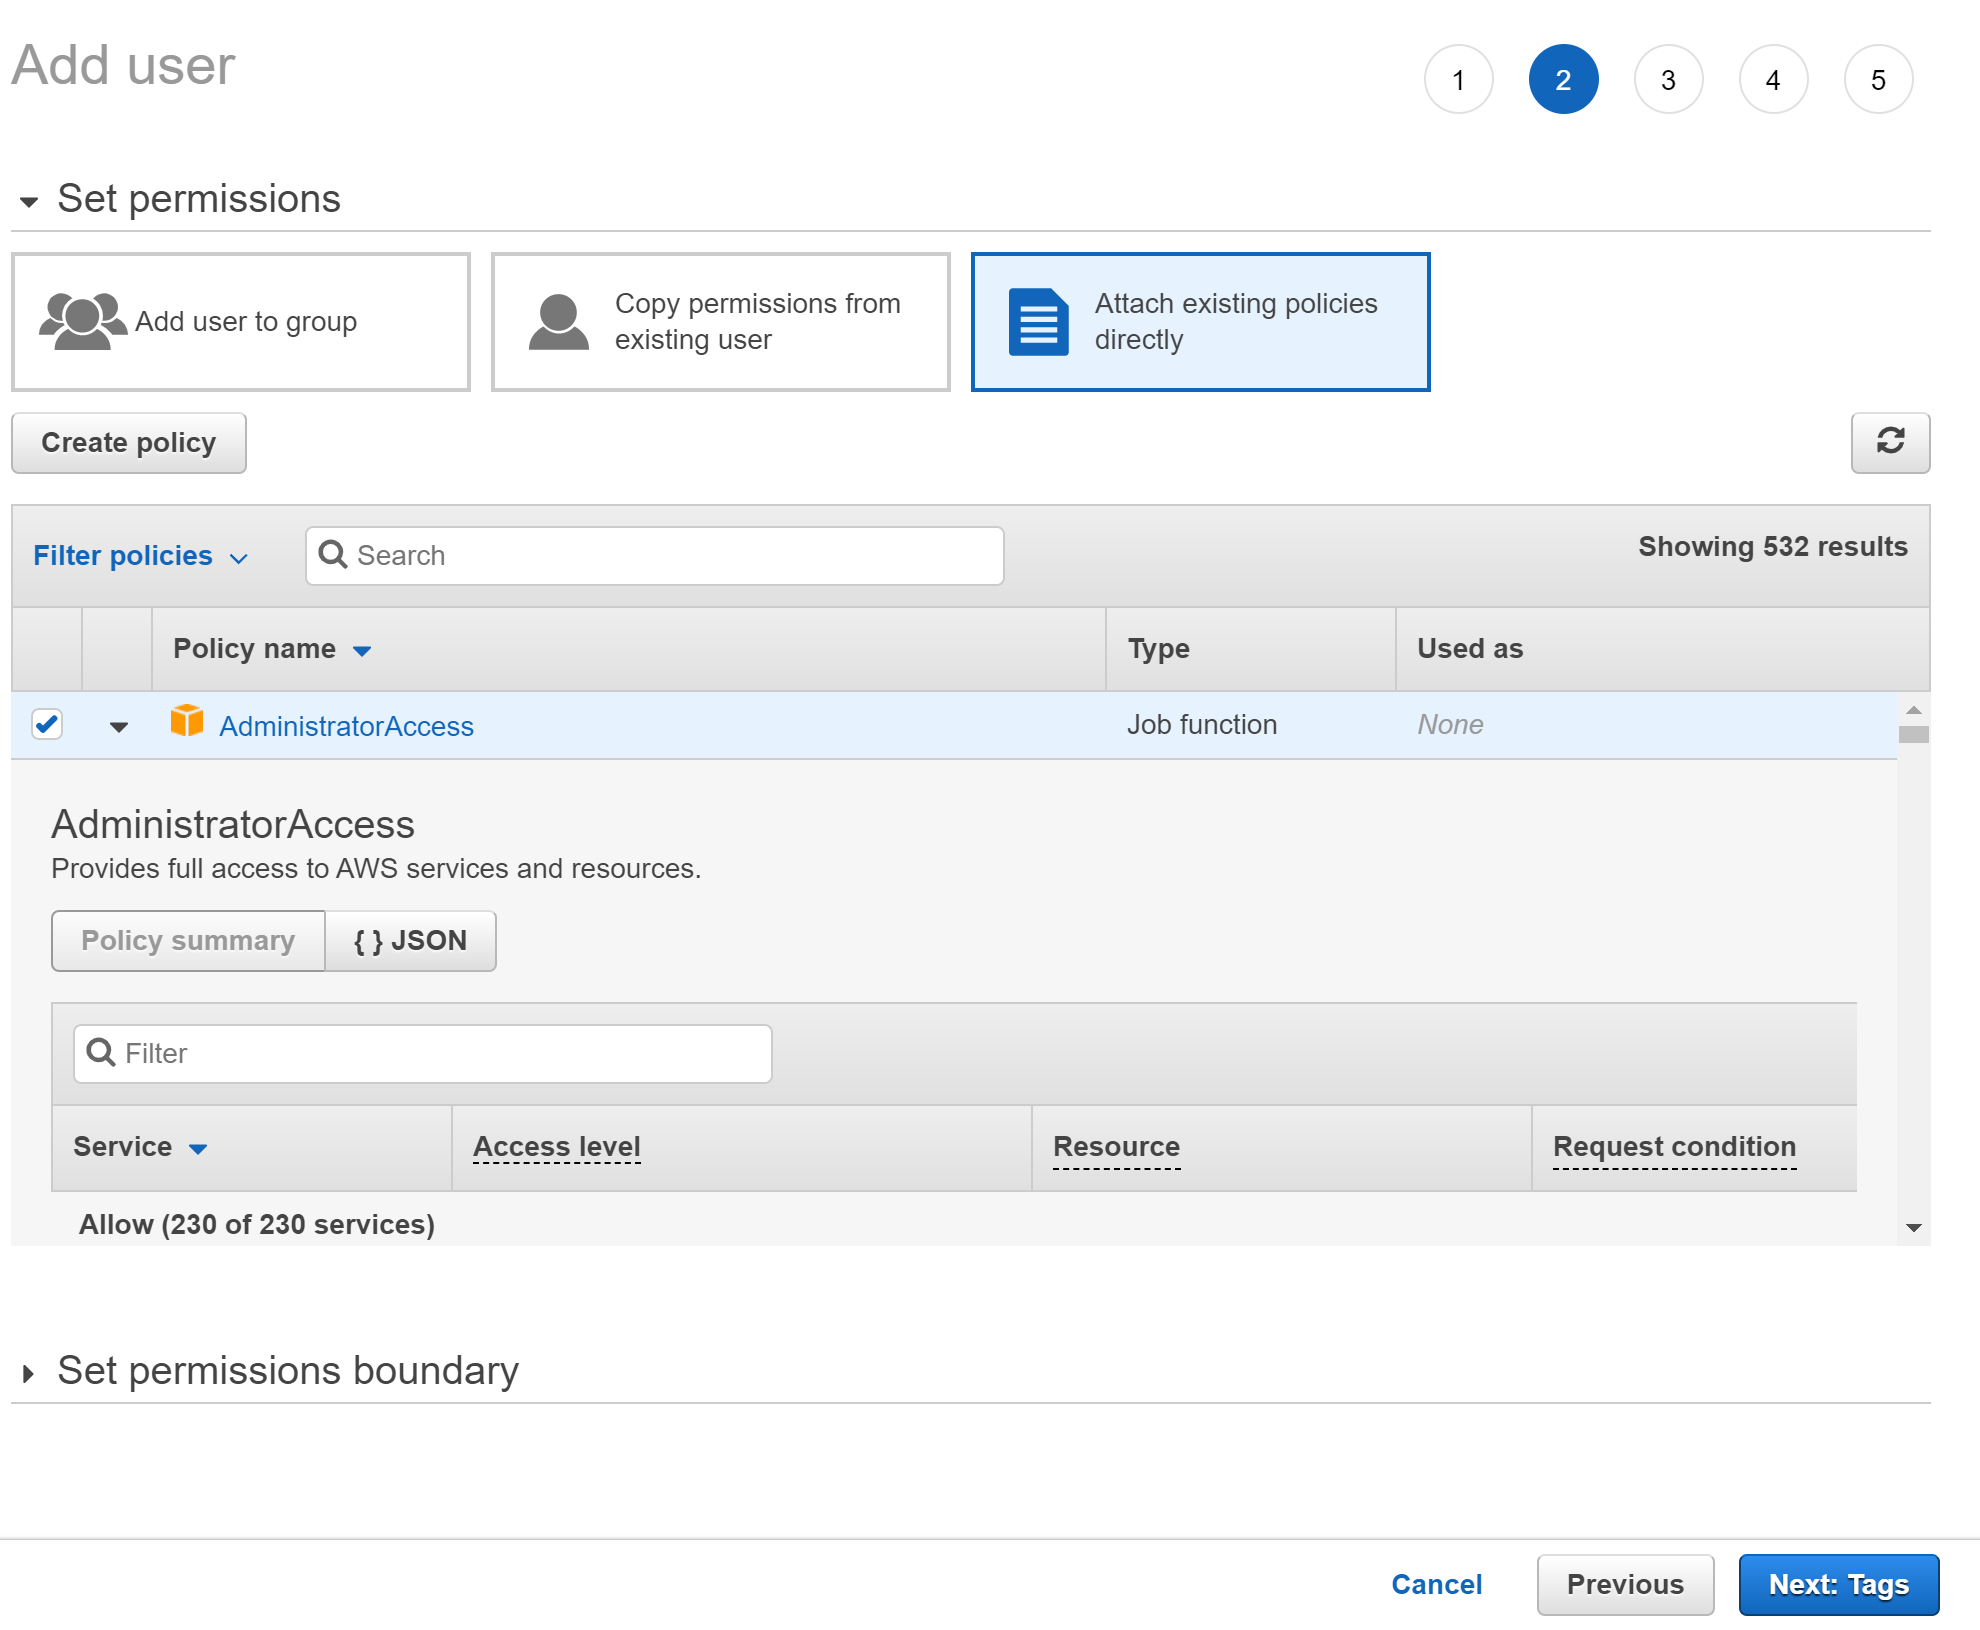
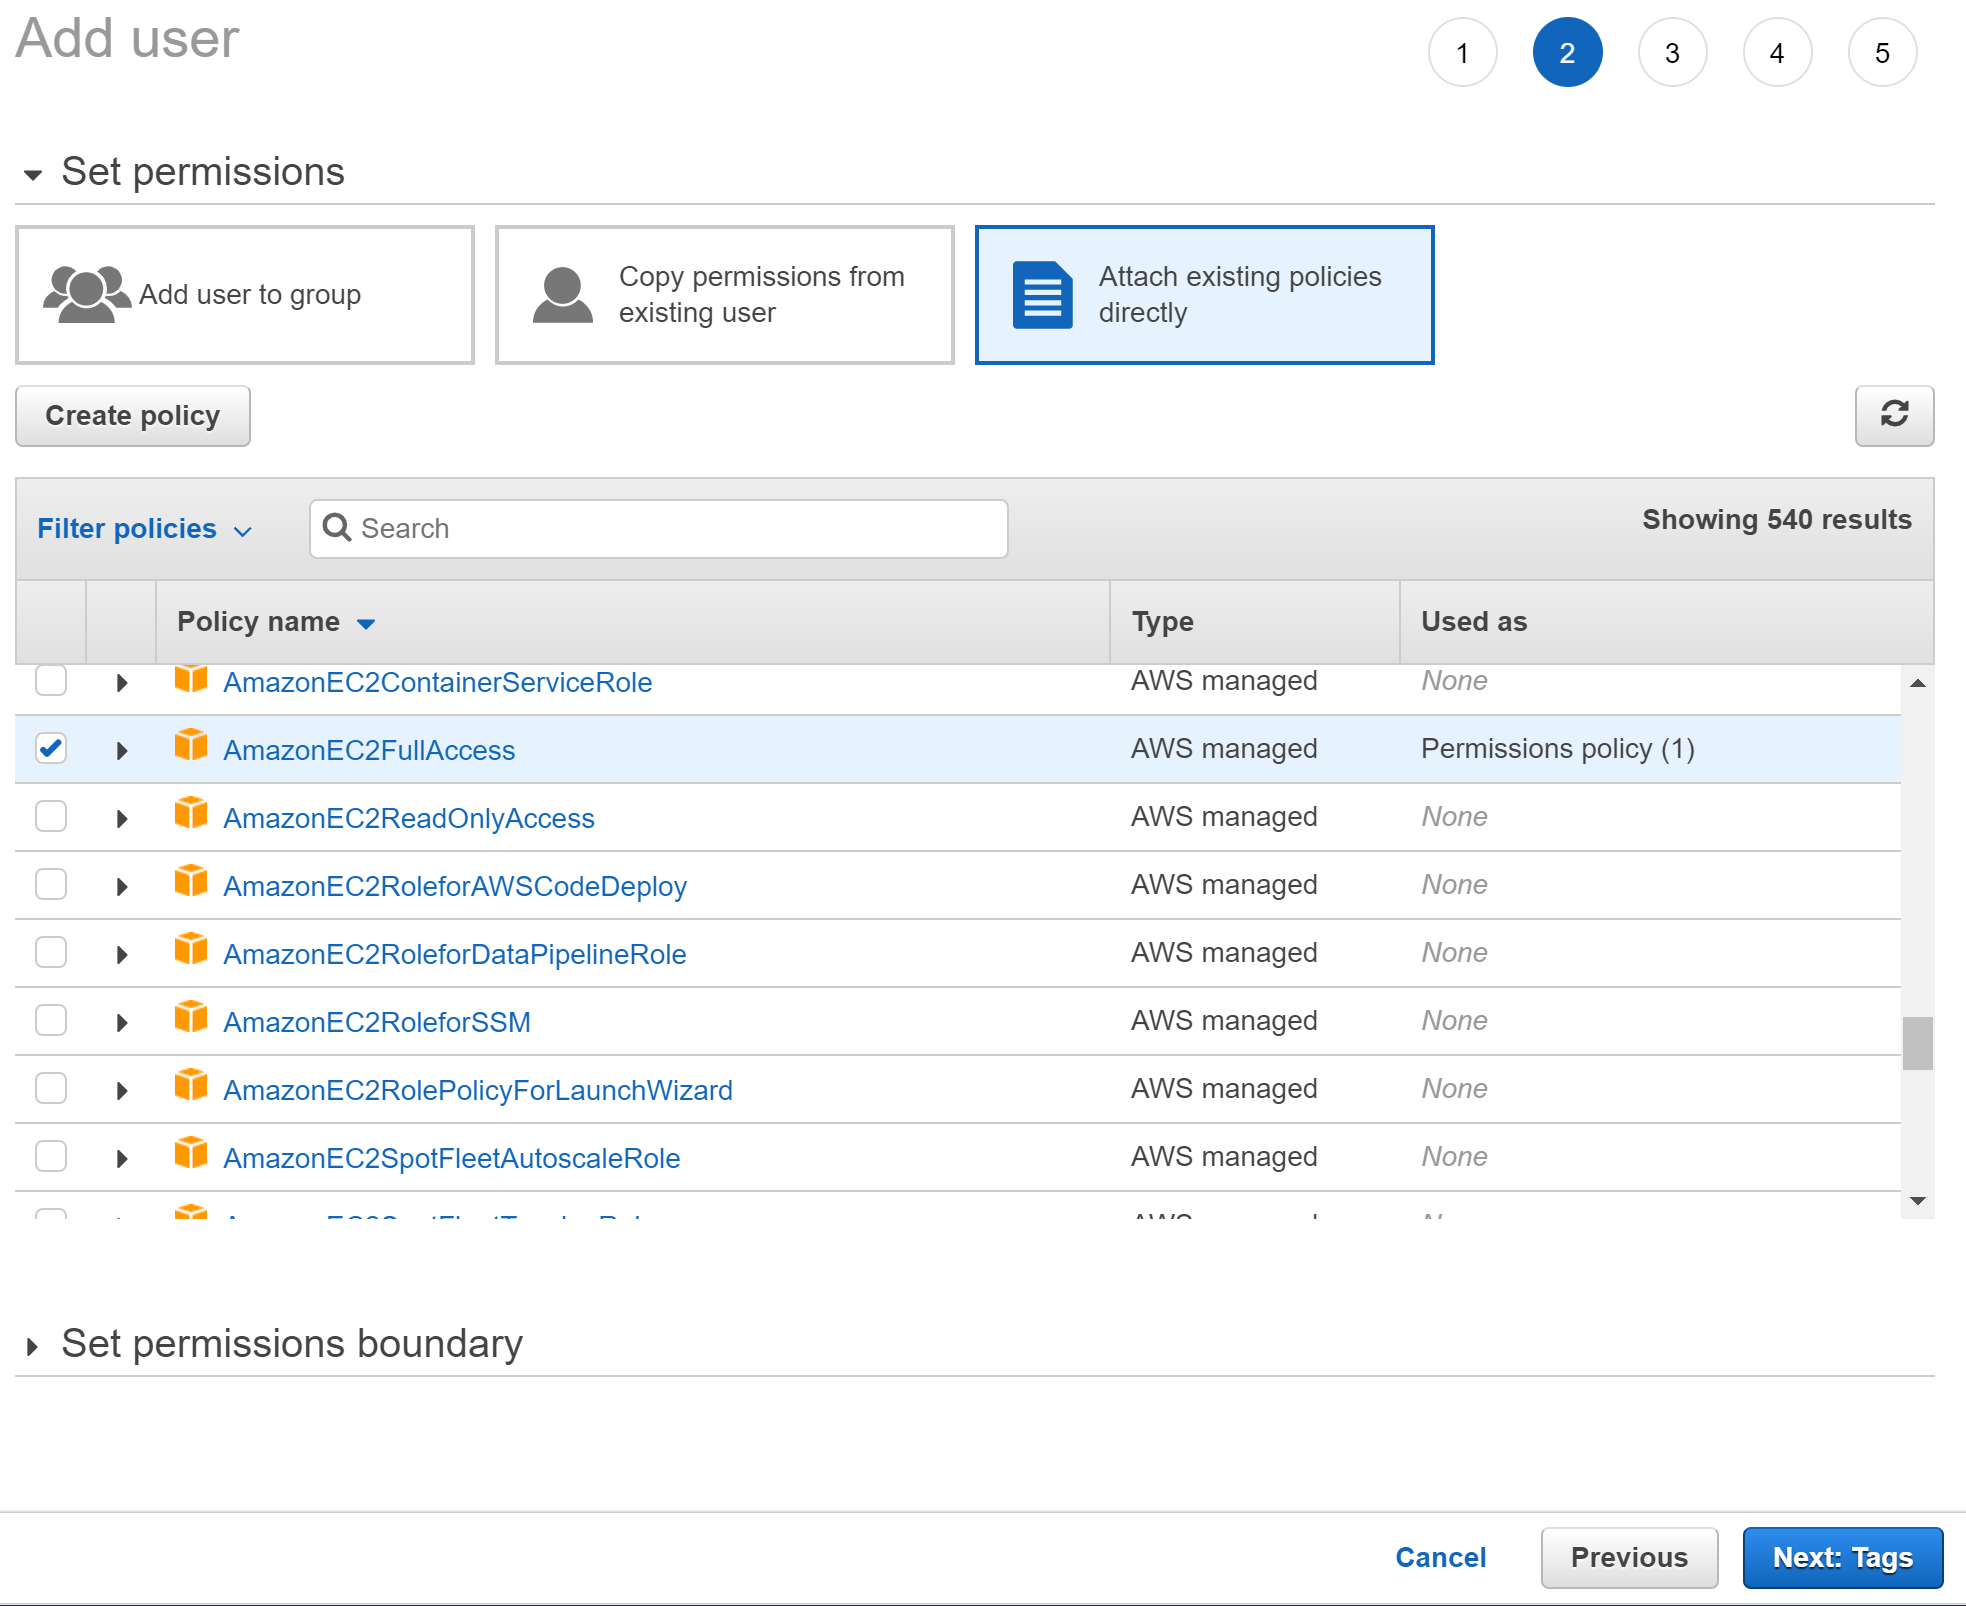
tighter permissions on AWS IAM account

diff --git a/azure_arc_servers_jumpstart/docs/aws_terraform_al2.md b/azure_arc_servers_jumpstart/docs/aws_terraform_al2.md
@@ -56,7 +56,7 @@ In order for Terraform to create resources in AWS, we will need to create a new 
 
     ![](../img/aws_al2/04.png)
 
-* On the next "Set Permissions" screen, select "Attach existing policies directly" and then check the box next to AdministratorAccess as seen in the screenshot then click "Next"
+* On the next "Set Permissions" screen, select "Attach existing policies directly" and then check the box next to AmazonEC2FullAccess as seen in the screenshot then click "Next"
 
     ![](../img/aws_al2/05.png)
 
